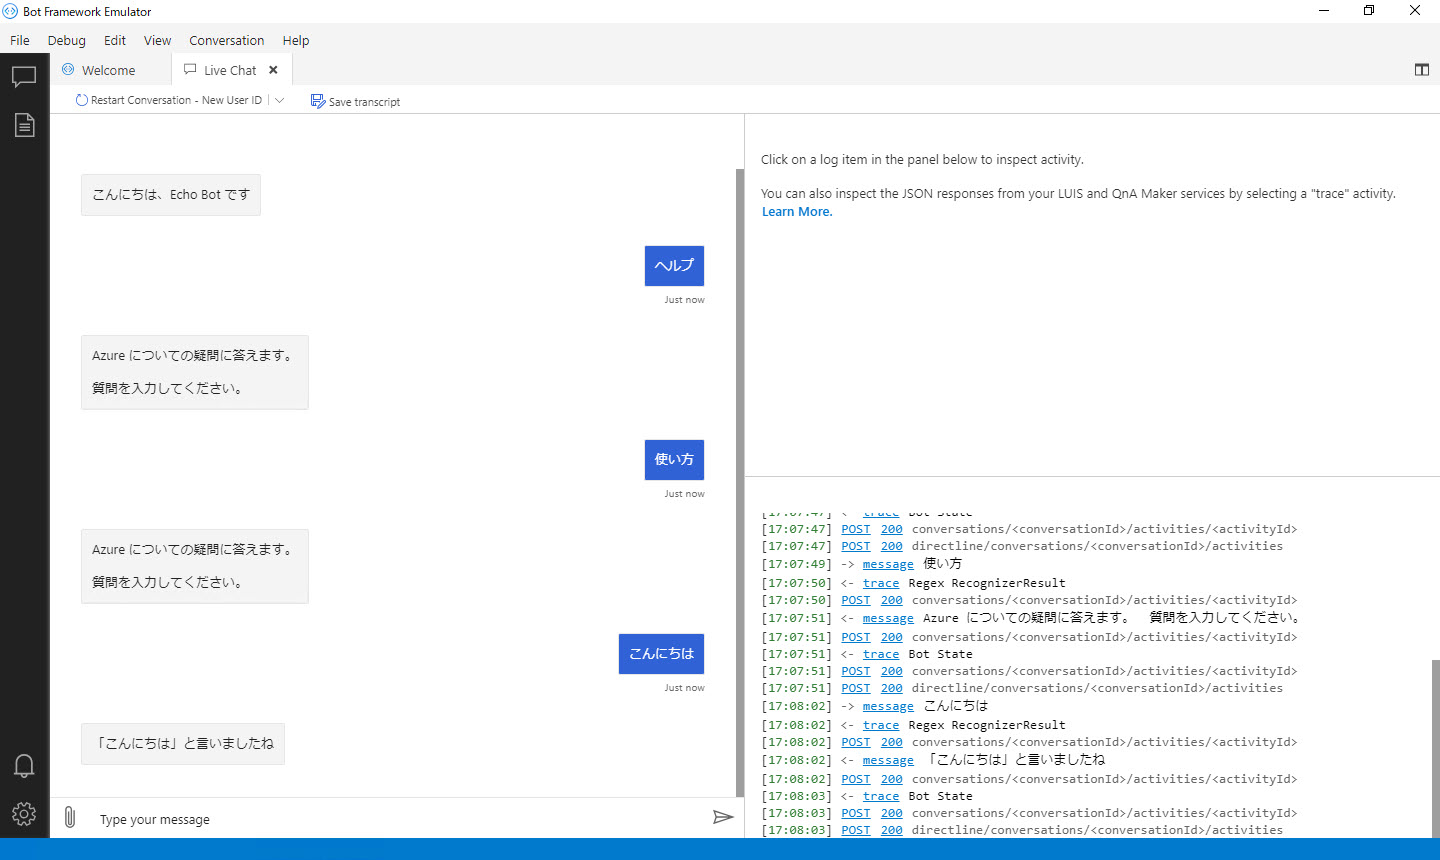
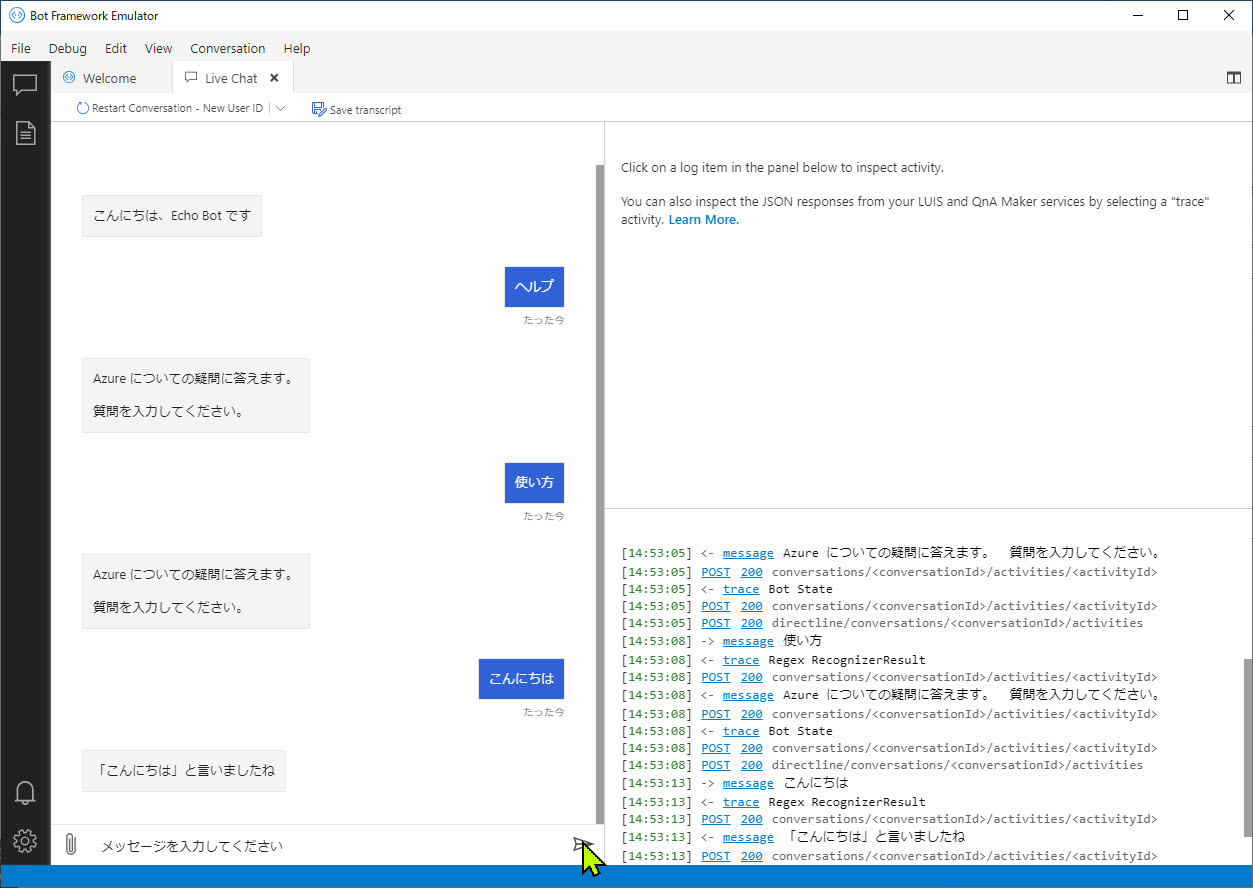
v1.3.1 対応

Changed region(s): [[0.0, 0.0, 1.0, 1.0], [0.0, 0.0, 0.3424, 0.9674]]

diff --git a/docs/03_composer_basic2.md b/docs/03_composer_basic2.md
@@ -9,11 +9,38 @@
 
 メッセージとしてはどちらもシンプルなものですが、Bot アプリケーションを拡張する重要な操作です。
 
-[1. 挨拶メッセージの確認](#%e6%8c%a8%e6%8b%b6%e3%83%a1%e3%83%83%e3%82%bb%e3%83%bc%e3%82%b8%e3%81%ae%e7%a2%ba%e8%aa%8d)  
-[2. 挨拶メッセージの変更](#%e6%8c%a8%e6%8b%b6%e3%83%a1%e3%83%83%e3%82%bb%e3%83%bc%e3%82%b8%e3%81%ae%e5%a4%89%e6%9b%b4)
-[3. ヘルプ ダイアログの追加](#%e3%83%98%e3%83%ab%e3%83%97-%e3%83%80%e3%82%a4%e3%82%a2%e3%83%ad%e3%82%b0%e3%81%ae%e8%bf%bd%e5%8a%a0)  
-[4. ヘルプ ダイアログへの切り替え](#%e3%83%98%e3%83%ab%e3%83%97-%e3%83%80%e3%82%a4%e3%82%a2%e3%83%ad%e3%82%b0%e3%81%b8%e3%81%ae%e5%88%87%e3%82%8a%e6%9b%bf%e3%81%88)  
-[5. Bot Framework Emulator で動作確認](#bot-framework-emulator-%e3%81%a7%e5%8b%95%e4%bd%9c%e7%a2%ba%e8%aa%8d)
+[0. 言語の変更](#言語の変更)  
+[1. 挨拶メッセージの確認](#挨拶メッセージの確認)  
+[2. 挨拶メッセージの変更](#挨拶メッセージの変更)  
+[3. ヘルプ ダイアログの追加](#ヘルプ-ダイアログの追加)  
+[4. ヘルプ ダイアログへの切り替え](#ヘルプ-ダイアログへの切り替え)  
+[5. Bot Framework Emulator で動作確認](#bot-framework-emulator-で動作確認)
+
+---
+
+## 言語の変更
+
+Bot Framework Composer は、
+
+- Composer の UI の言語
+- Bot が対象とする言語
+
+を変更可能です。
+
+Composer の UI 言語を変更するには、[Composer Settings] - [Application Settings] で先頭の [Composer UI] を変更します。
+
+![](./images/03/bfcomp_compsetting_uilang.jpg)
+
+> このハンズオン資料では、Composer UI は英語のままで進めます。
+
+プロジェクトの Bot が対象とする言語は、以下の操作で変更します。
+
+1. [Project Settings] で [Bot language] セクションまで進む
+2. [Manage bot languages] を選択  
+   ![](./images/03/bfcomp_projset_managelang.jpg)
+3. [To which language ～] で "Japanese (Japan)" を選択して、さらに [When done, switch to the newly language ～] を選択する。  
+最後に [Done] で言語を確定  
+   ![](./images/03/bfcomp_managelang_jajp.jpg)
 
 ---
 
@@ -25,7 +52,7 @@ Bot アプリケーションが挨拶メッセージを返すのは
 
 - Bot が動作していることを知らせる
 - Bot の機能を知らせる
-- ユーザーが最初に何をできるのかを知らせる
+- ユーザーが最初に何をすればいいのかを知らせる
 
 などが目的です。
 
@@ -67,7 +94,7 @@ Bot アプリケーションが挨拶メッセージを返すのは
    ![](./images/03/bfcomp_greting_send_mes_lg.jpg)
 
 5. 挨拶メッセージが定義されている場所を確認します。  
-   [**Bot Response**] - [**All**] に "#WelcomeUser" テンプレートが定義されていることを確認します。
+   [**Bot Response**] - [**Common**] に "#WelcomeUser" テンプレートが定義されていることを確認します。
 
    ![](./images/03/bfcomp_botresp_welcomeuser.jpg)
 
@@ -76,7 +103,7 @@ Bot アプリケーションが挨拶メッセージを返すのは
 ## 挨拶メッセージの変更
 
 1. 挨拶メッセージを変更します。  
-   [**Edit mode**] を有効にします。
+   [**Show code**] を有効にします。
 
 2. "**WelcomeUser**" の定義を以下の内容に変更します。
 
@@ -95,9 +122,10 @@ Bot アプリケーションが挨拶メッセージを返すのは
 
    <img src="./images/03/bfcomp_restart_bot.jpg" width="400px" />
 
-4. Bot が起動したら Bot Framework Emulator を開きます。
+4. Bot が起動したら Bot Framework Emulator を開き、Emulator が日本語ロケールで動作するように設定変更します。  
+   [Settings] で [Locale] に "ja-jp" と入力して [Save] します。 
 
-   [**Restart Conversation - New User ID**] を何度かクリックして、ランダムに挨拶メッセージが変わることを確認します。
+5. [Live Chat] タブに戻って、[**Restart Conversation - New User ID**] を何度かクリックして、ランダムに挨拶メッセージが変わることを確認します。
 
    ![](./images/03/bfemu_restart_conv.jpg)
 
@@ -120,14 +148,48 @@ Bot にヘルプメッセージを応答する機能を追加します。
 > ダイアログは一般的には、他から独立した一連の対話を定義するために使用します。  
 > ここでの手順は一つのメッセージを応答するだけなので、必ずしもダイアログにする必要はありません。  
 >
-> またオウム返し Bot でヘルプ機能は不要なはずですが、今回はダイアログの定義と呼び出し方とを理解するために、シンプルな処理ですがダイアログを使うことにします。
+> またオウム返し Bot でヘルプ機能は不要なはずですが、シンプルな処理ですが今回はダイアログを使うことにします。これはダイアログの定義と呼び出し方とを理解するためです。
 
-1. [**Bot Response**] にヘルプメッセージを定義します。  
-   [Bot Response] を選択して [**Edit mode**] に変更します。  
-   以下の "**ShowHelp**" 定義を追加します。
+1. [**Design**] - [**MyQnaBot**] - [**Add a dialog**] を選択します。  
+   なお選択する "MyQnaBot" は Dialog ではなくてプロジェクトのほうです。
+
+   <img src="./images/03/bfcomp_add_new_dialog.jpg" width="540px" />
+
+2. [**Name**] にダイアログの名前を入力します。  
+   今回は "**Help**" とします。
+
+   <img src="./images/03/bfcomp_help_dialog_name.jpg" width="540px" />
+
+3. [**Help**] - [**BeginDialog**] で [**+**] をクリックして、続いて [**Send a response**] をクリックします。
+
+   ![](./images/03/bfcomp_help_add_send_res.jpg)
+
+4. [**Send a response**] をクリックして、Property の [**Language Generation**] に以下を入力します。
+
+   ```txt
+   - ${ShowHelp()}
+   ```  
+
+   ![](./images/03/bfcomp_help_send_mes_lg.jpg)
+
+   ```
+   この操作では "${ShowHelp()}" に対してエラーメッセージが表示されます。  
+   これは ShowHelp() がまだ定義されていないためです。ShowHelp はこのあとですぐに定義するので気にせずに先に進みます。
+   ```
+
+5. [**Bot Response**] にヘルプメッセージを定義します。  
+   [Bot Response] を選択して [**Help**] で [**New template**] を選択します。  
+   ![](./images/03/bfcomp_botresp_newtemp.jpg)
+
+6. 新規作成された行の [**Name**] をクリックして "**#ShowHelp**" に変更します。  
+   ![](./images/03/bfcomp_botresp_rename_showhelp.jpg)  
+   
+7. "#ShowHelp" のメニューを開いて [**Edit**] を選択します。  
+   ![](./images/03/bfcomp_botresp_edit_showhelp.jpg)
+
+8. "**ShowHelp**" の定義を以下の内容に変更します。
 
    ````txt
-   # ShowHelp
    - ```Azure についての疑問に答えます。
 
    質問を入力してください。
@@ -138,27 +200,6 @@ Bot にヘルプメッセージを応答する機能を追加します。
 
    > **```** (バッククォート 3個) で囲むことで、複数行メッセージを定義できます。
 
-2. [**Dialog**] - [**+ Add**] - [**Add new dialog**] を選択します。  
-
-   <img src="./images/03/bfcomp_add_new_dialog.jpg" width="540px" />
-
-3. [**Name**] にダイアログの名前を入力します。  
-   今回は "**Help**" とします。
-
-   <img src="./images/03/bfcomp_help_dialog_name.jpg" width="540px" />
-
-4. [**+**] をクリックして、続いて [**Send a message**] をクリックします。
-
-   ![](./images/03/bfcomp_help_add_send_res.jpg)
-
-5. [**Send a response**] をクリックして、Property の [**Language Generation**] に以下を入力します。
-
-   ```txt
-   - ${ShowHelp()}
-   ```
-
-   ![](./images/03/bfcomp_help_send_mes_lg.jpg)
-
 ---
 
 ## ヘルプ ダイアログへの切り替え
@@ -166,20 +207,19 @@ Bot にヘルプメッセージを応答する機能を追加します。
 ユーザーの入力は "**MyQnaBot**" が受け取ります。  
 ヘルプメッセージを表示するには、メインからヘルプ ダイアログへの **コンテキスト切り替え** が必要です。
 
-1. "**MyQnaBot**" を選択して、Property の [**Recognizer Type**] で "**Regular Expression**" を選択します。
+1. "**MyQnaBot**" ダイアログを選択して、Property の [**Recognizer Type**] で "**Regular Expression recognizer**" を選択します。
 
    ![](./images/03/bfcomp_set_rectype.jpg)
 
    > 今までは Intent（＝意図、ユーザーが Bot に何をさせようとしているのか）を分類するルールを持っていませんでした。  
-   > この手順で正規表現でユーザー入力の Intent を分類するようになりました。
+   > この手順で正規表現でユーザー入力の意図を分類するようになりました。
 
 2. ヘルプダイアログを呼び出すための Trigger を "**MyQnaBot**" に追加します。  
-   [**+ Add**] - [**Add new trigger on MyQnaBot**] を選択します。
+   "MyQnaBot" ダイアログで [**Add a trigger**] を選択します。
 
    <img src="./images/03/bfcomp_add_help_trigger.jpg" width="480px" />
 
-3. "MyEchoBot.Main" で [**New Trigger**] を選択します。  
-   [**Create a trigger**] ダイアログが開いたら、以下を入力・選択をします。
+3. [**Create a trigger**] ダイアログが開いたら、以下を入力・選択をします。
 
    |項目名|値|
    |---|---|
